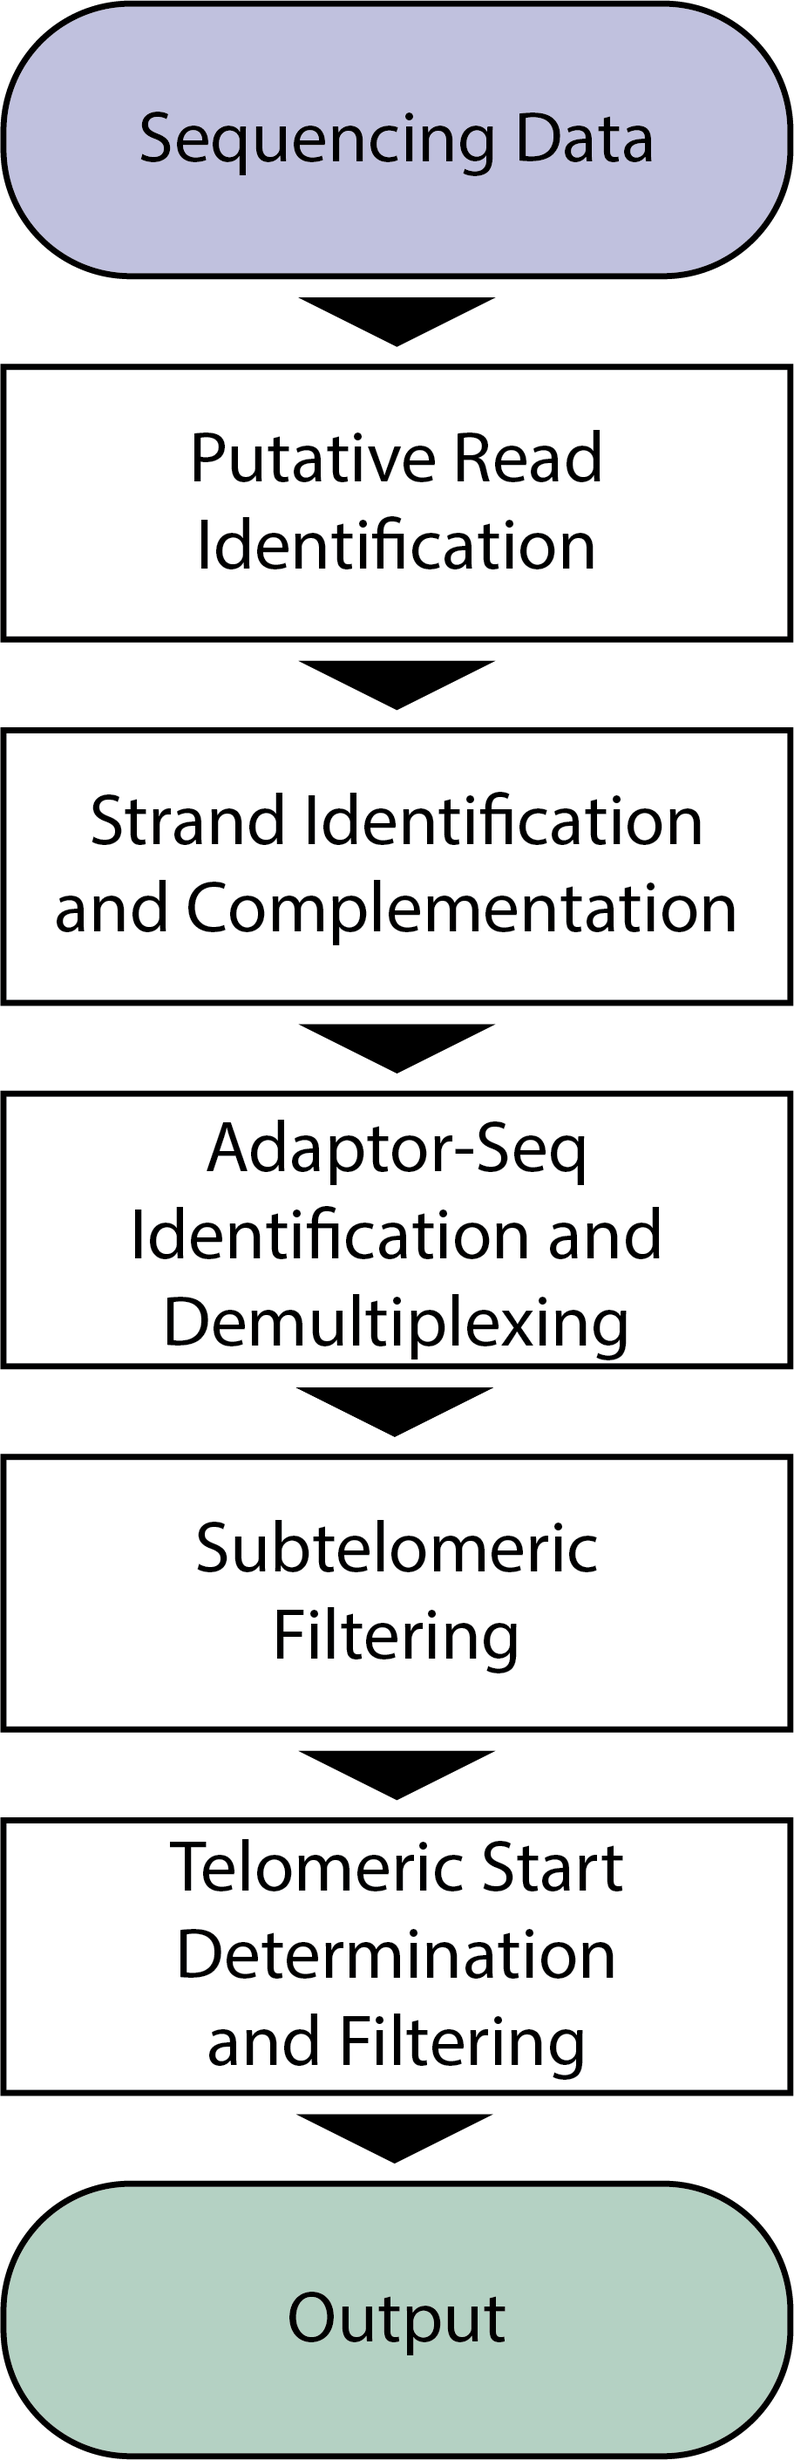
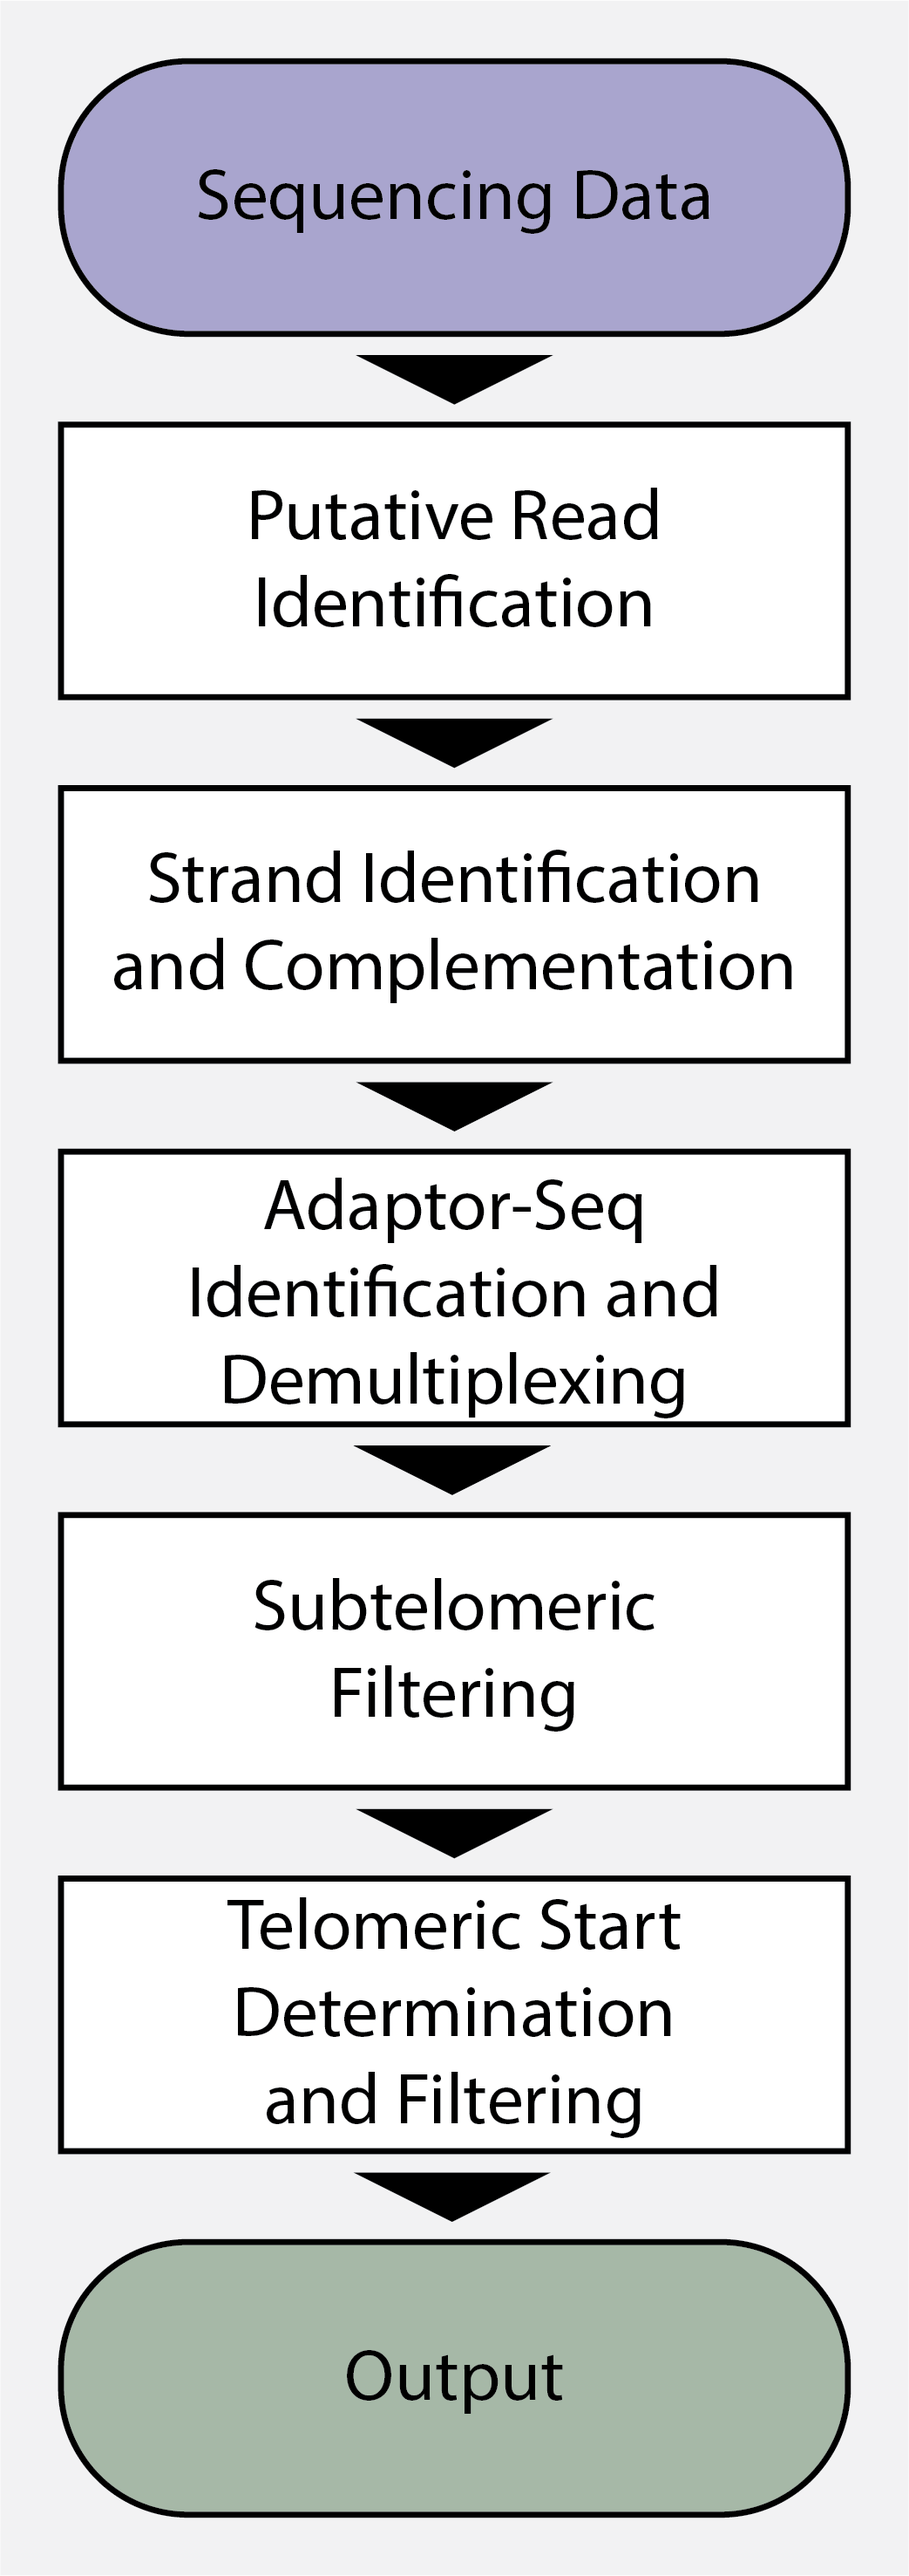
adding barcode sequence validation to make sure it works with barcode errors - python script wrote, but not properly integrated into pipeline

diff --git a/bin/check_hamming_distance.py b/bin/check_hamming_distance.py
@@ -1,0 +1,34 @@
+#!/usr/bin/env python3
+
+import sys
+
+sample_file = sys.argv[1]
+barcode_errors = int(sys.argv[2])
+
+barcodes = []
+with open(sample_file, 'r') as sample_fh:
+    linecount = 0
+    for line in sample_fh:
+        if linecount == 0:
+            linecount += 1
+            continue
+        line = line.strip().split(",")
+        barcodes.append(line[1])
+
+for i in range(0, len(barcodes)-1):
+    for j in range(i+1, len(barcodes)):
+        if barcodes[i] == barcodes[j]:
+            sys.exit()
+        else:
+            distance = 0
+            for k in range(0, len(barcodes[i])):
+                if barcodes[i][k] != barcodes[j][k]:
+                    distance += 1
+            if distance <= barcode_errors:
+                sys.exit()
+
+f = open("passed.txt", "w")
+f.close()
+            
+        
+        

diff --git a/README.md b/README.md
@@ -17,11 +17,12 @@ TArPON is a pipeline developed in the lab of Dr. Peter Baumann by PhD candidate 
 
 ## [The Pipeline](#pipeline)
 
-![pipeline_schematic](./src/TArPON_Pipeline.png)
+<img src="./src/TArPON_Pipeline.png" alt="pipeline_schematic" width=200>
+
 
 TArPON begins by identifying a set of putative telomeric sequences to reduce computational time and resources at later steps in the pipeline. By default, this is done by isolating reads that contain at least ten perfect telomeric repeats (see parameters: repeat, repeat_count ). These repeats do not have to be consecutive.  The ratio of G telomeric repeats to C telomeric repeats is calculated for all putative telomeric reads. If the ratio falls between 20 and 80% ( see parameter reverse_complement_threshold ) the reads are discarded as they are most likely chimeric sequences.  All reads that are less than 20% G telomeric repeats (these would be C strand reads) are reverse complemented so all telomeric reads are in the same orientation for further analysis. Strandedness information is retaiend throughout the pipeline and strands can be compared using the parameter --strand_comparison.  Telomeric reads are then demultiplexed and the end of the read is identified using either a provided adaptor sequence (--adaptor_sequence) or by the barcodes found in --sample_file. If no sample_file is provided all reads are considered to end in the adaptor_sequence and belong to the same sample: in this case --sample_name should also be provided.  In the case that all telomeric capture probes/sequences are unique and do not contain a shared sequence, --adaptor_sequence should be left blank and the end of the telomeric read will be determined by the barcodes present in sample_file. If both adaptor sequence and sample_file are provided, the end of the telomere will be determined by the presence of the adaptor_sequence and demultiplexed by the barcodes found in sample_file. In all cases of sequence searches, fuzzy searching is conducted based on --adaptor_sequence_errors and --barcode_errrors. It is recomended a minimum sequence length of 12 nucleotides be used with two errors, increasing by one error for every additional 8 base pairs, assuming the sequence difference between all barcodes is greater than three. The pipeline will return an error if the hamming distance of barcodes is less than the number of allowable errors.
 
-INSERT DEMULTIPLEXING SCHEMATIC HERE
+<img src="./src/demux_figure.png" alt="demux_schematic" width=800>
 
 After demultiplexing telomeric reads are filtered to ensure the telomere was completely sequenced by removing reads containing more than 30% (--subtelo_threshold) one nucleotide telomeric repeat variants in the first  300 base pairs (--min_subtelo_length). Telomere length determination is divided into two steps. The first is the identification of the Variable Repeat Rich (VRR) Region Start, followed by telomere length calculation.  During development of the pipeline it was clearly seen in both HG002 data and data collected from clinical samples, that while there was rarely a sharp and sudden increase from 0 to 100% of perfect telomeric repeats, there was a region immediately adjacent to the telomere composed of nearly 100% one nucleotide telomere repeat variants (see Deimler et al. for more information). The beginnig of this VRR region was often a very clear and suddent increase from 0% to 100%. Computationally, this region is identified by a sliding window 200bp in size (--sliding_window_size) jumping 10bp (--sliding_window_interval) at a time. Once this window reaches a threshold of being composed of 60% (--upper_threshold) one nucleotide telomere repeat variants the VRR region starts at the first one nucleotide variant repeat sequence within the sliding window, assuming it does not drop below 10% (--lower_threshold). These thresholds were determined by computationally comparing to a manually annotated truth set. The lower threshold is required to ensure that one nucleotide variation islands that exist within the subtelomere (as seen on chromosome arm WHICH CHROMOSOME ARM) do not drastically skew any length estimations. However, this entire VRR region would not be functionally relevant. Therefore telomere length is calculated as the summation of all perfect telomere repeats that exist between the VRR start and the end of the read when they occur at least 3 repeats in a row (--consecutive_repeats). All statistics and plots use this telomere length calculation metric unless --plot_vrr_length is specified. In addition, a easily readable HTML file is generated containing all relevant statistics and plots. See the output section of this documentation for a more detailed description of the output produced by this pipeline.
 
@@ -139,17 +140,14 @@ Various output files are produced when the pipeline is run with different parame
 | output/Sample_name/FIGURES |telo_length_hist.pdf| Telomere length histogram with mean telomere length dictated by solid red, vertical line |PDF|
 
 
-### With --strand_comparison
 
+## Additional Output Files
 
-### With --restriction_digest_analysis
+Specifying one of the booleans below will result in more detailed or additional results/figures being returned with little increase in computational time or cost.  The parameters are stackable and will often produce additional input when stacked. For example combining --detailed_stats with --strand_comparison will produce more information than either parameter alone.  
 
-|Parent Directory|File Name|Contents|Type|
-|:--|:--:|:--:|:--:|
-|output/sample_name|digest_stats.txt|Summary statistics on all telomeric reads (sample.telomeric.fastq) containing at least one cut site (cut_site.fastq)|txt file|
-### With --detailed_stats
-
-### With --plot_vrr_length
-
-
-With --strand_comparison activated. All statistics files will now contain the same files as previously described but an additional .c_strand.fastq and .g_strand.fastq for each file.
+| Parameter | Location | Description |
+| :--------:|:--:|:--:|
+|--strand_comparison| <nobr>sample directory / C_G_Comparison / |An additional directory within each sample containing three pdf files with direct comparisons of telo length and read length between the C and G strands|
+|<nobr>--restriction_digest_analysis | <nobr> sample directory / restriction_digest.stats.txt |Will create one additional file per sample containing the summary statistics of all reads containing each specified cut site produced by seqkit stats|
+|--plot_vrr_length|sample directory / FIGURES |Will produce additional files for all predescribed telomere statistics, but with the VRR length instead of the telo length. This compounds with --strand_comparison to produce strand specific vrr length plots |
+|--detailed_stats| sample directory / DETAILED_STATS / |Will produce multiple additional figures comparing telomere length to VRR length, looking at the percentage of perfect repeats within the sequencing data, looking at the quality of telomeric sequences, etc. All such files can be found in the sample directory under FIGURES/DETAILED_STATS. This compounds with both strand_comparison and plot_vrr_length to produce additional files in the C_G_Comparison directory |
